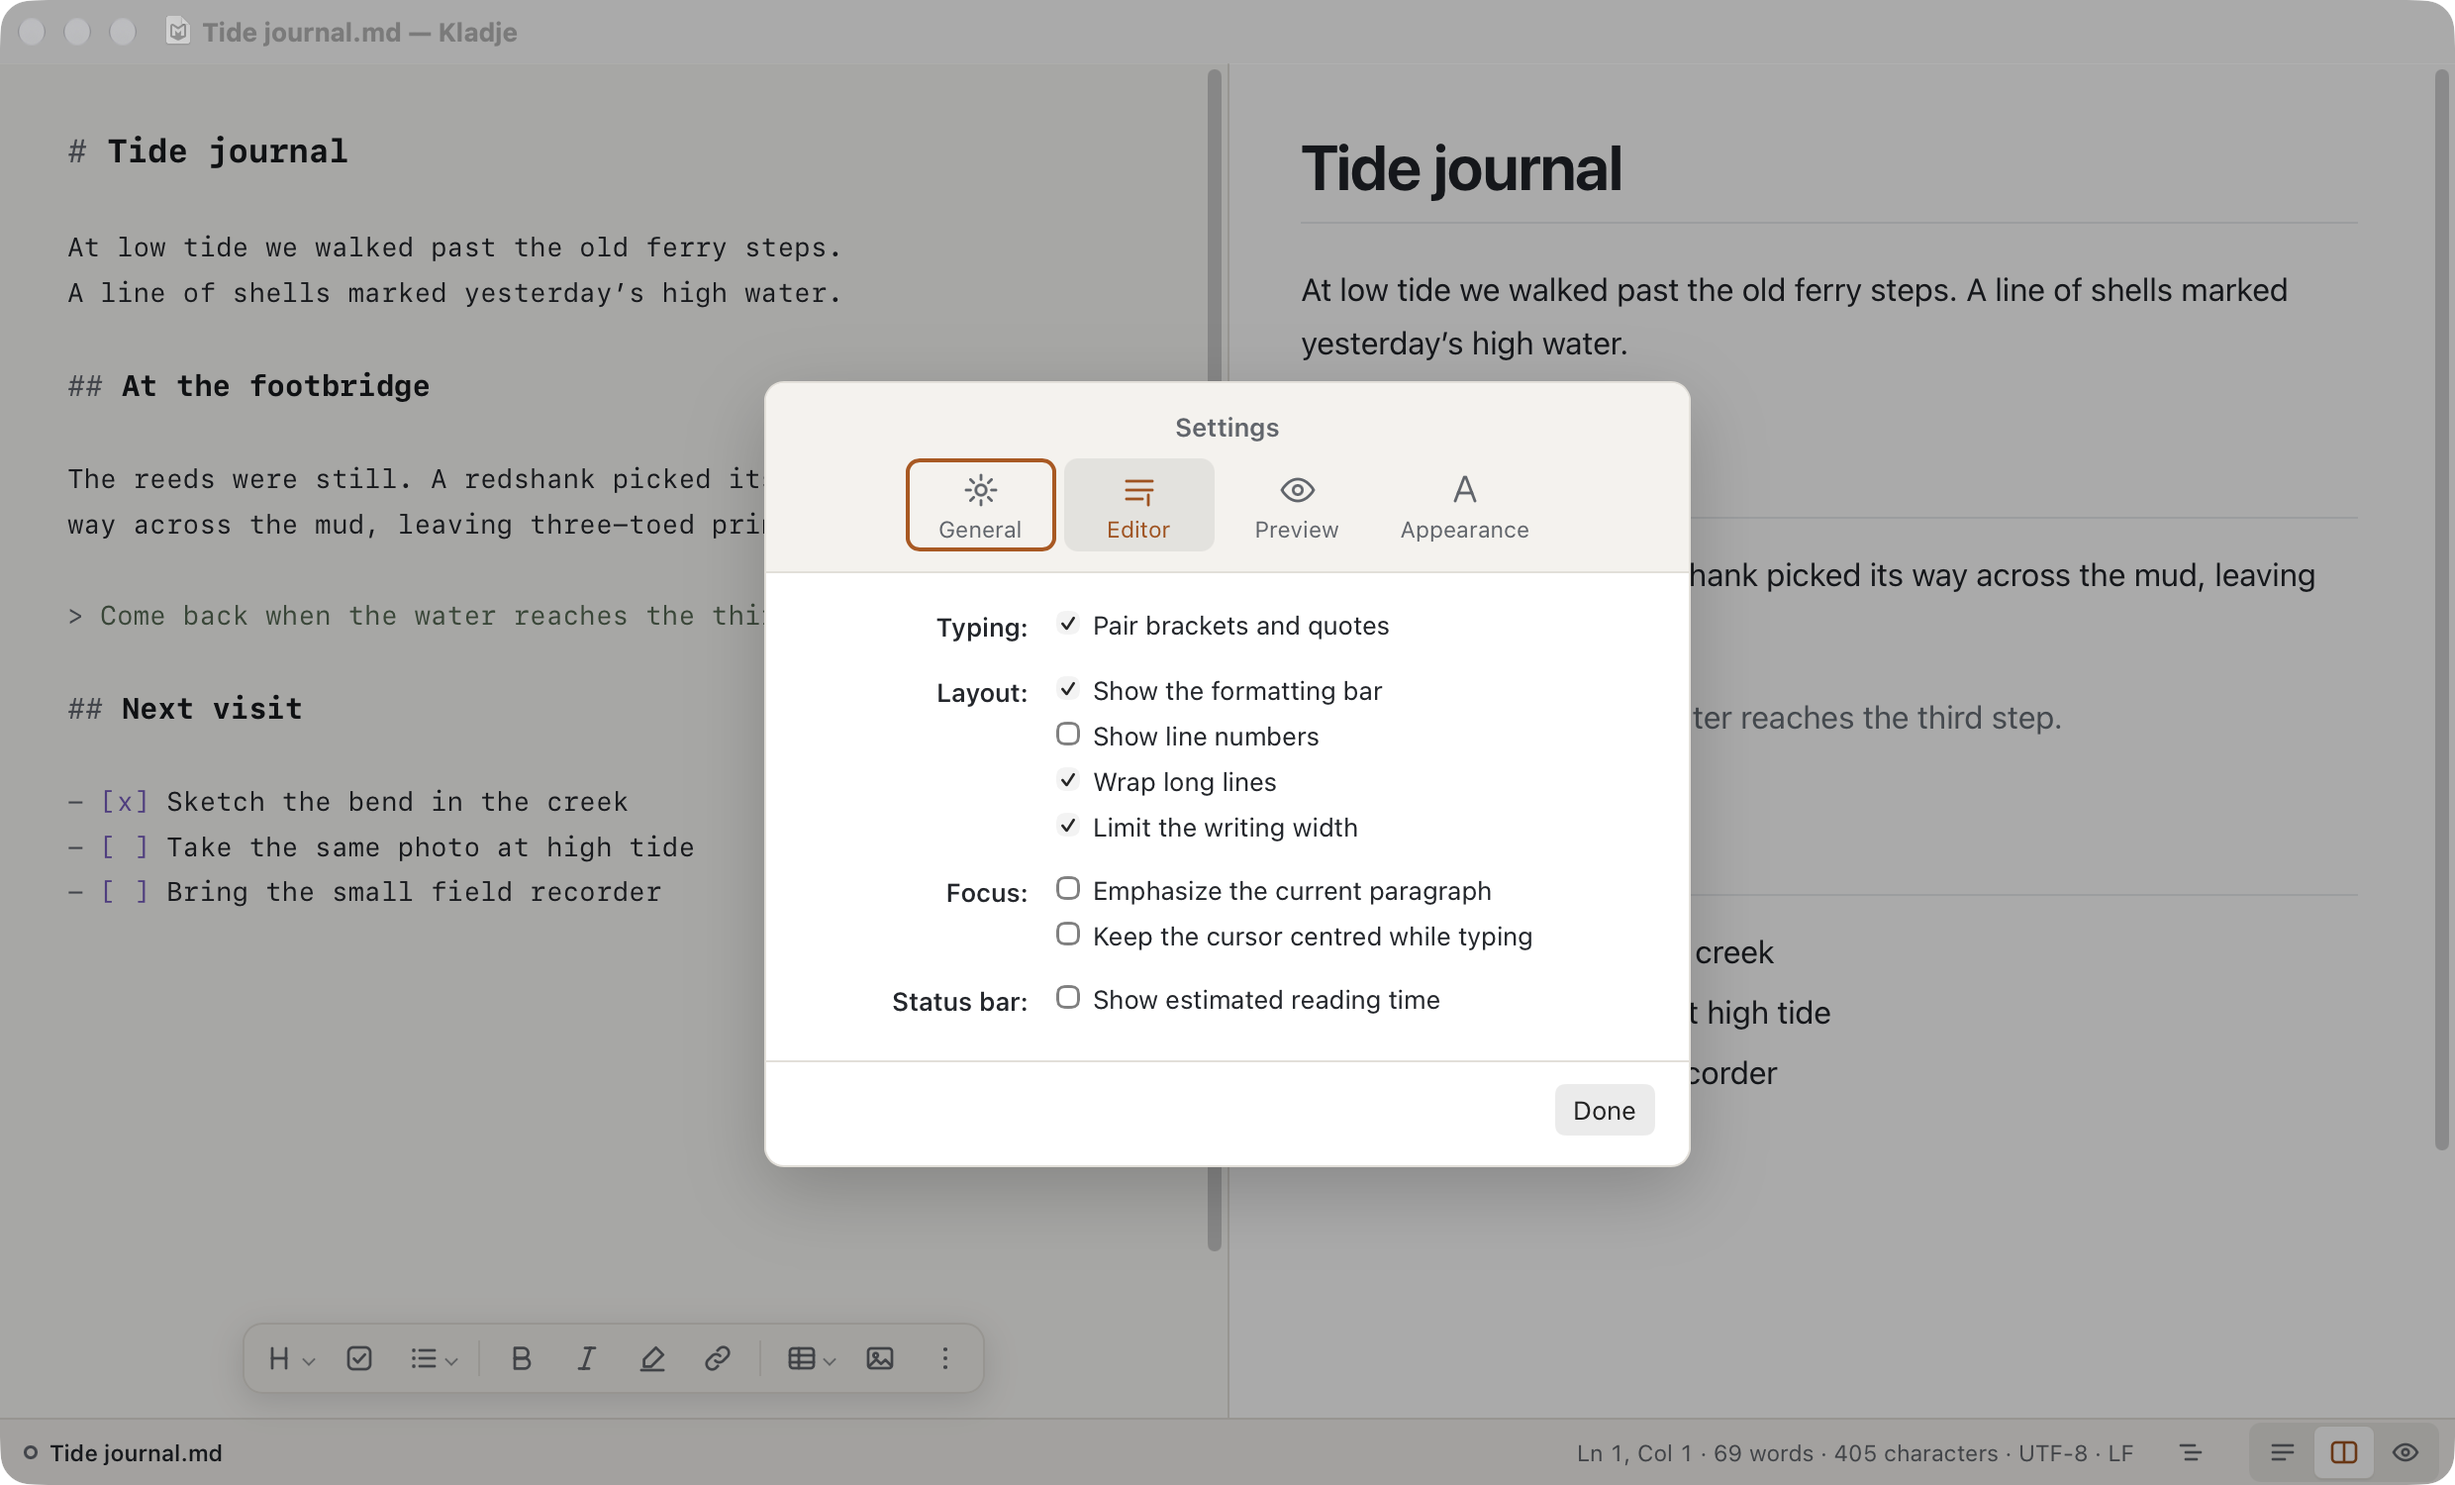
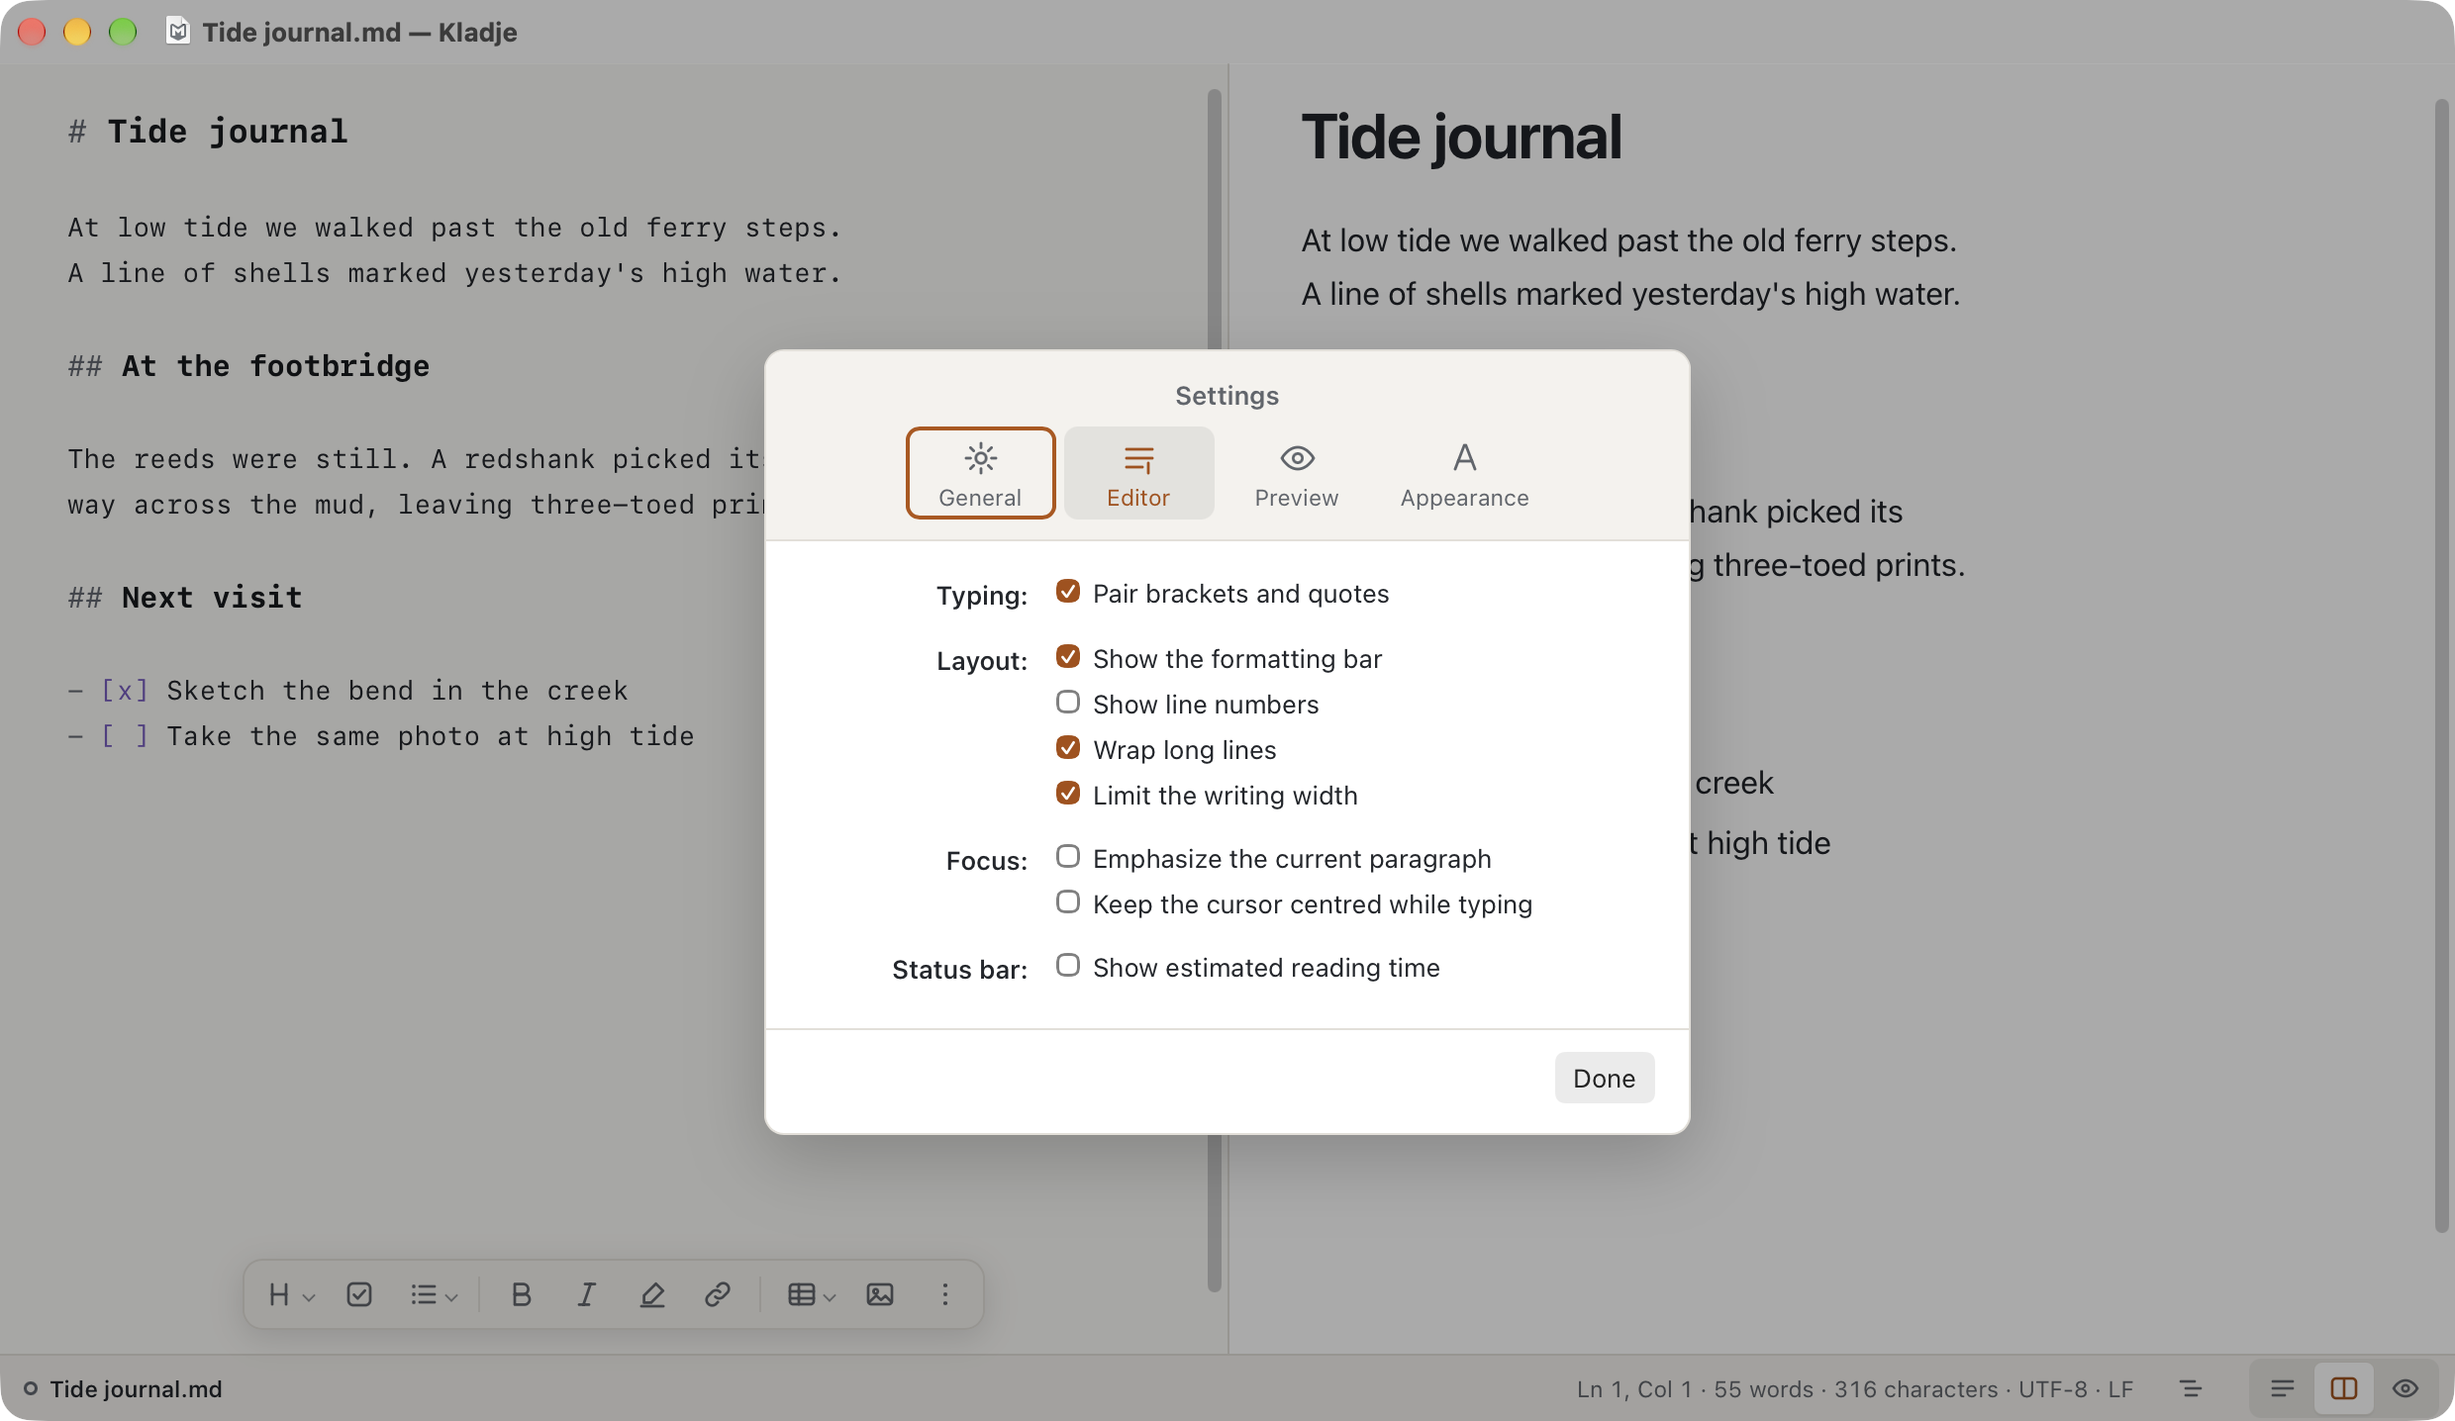
Refresh the README screenshots for the current app
The screenshots still showed headings with a rule underneath and plain
quotes. They now come from the current app: the tide journal with its
outline and a tip callout in light and dark, the start screen with
recent documents, and the Editor settings. The README's description of
the main screenshot mentions the tip.

diff --git a/README.md b/README.md
@@ -4,7 +4,7 @@ Kladje is a lightweight Markdown editor for macOS, with a Windows preview. Open 
 
 <picture>
   <source media="(prefers-color-scheme: dark)" srcset="docs/screenshots/outline-dark.png">
-  <img src="docs/screenshots/writing-light.png" alt="A tide journal open in Kladje. The outline lists its sections, the editor shows the Markdown, and the preview shows the field notes and checklist." width="100%">
+  <img src="docs/screenshots/writing-light.png" alt="A tide journal open in Kladje. The outline lists its sections, the editor shows the Markdown, and the preview shows the field notes with a tip and a checklist." width="100%">
 </picture>
 
 ## Writing in Kladje
